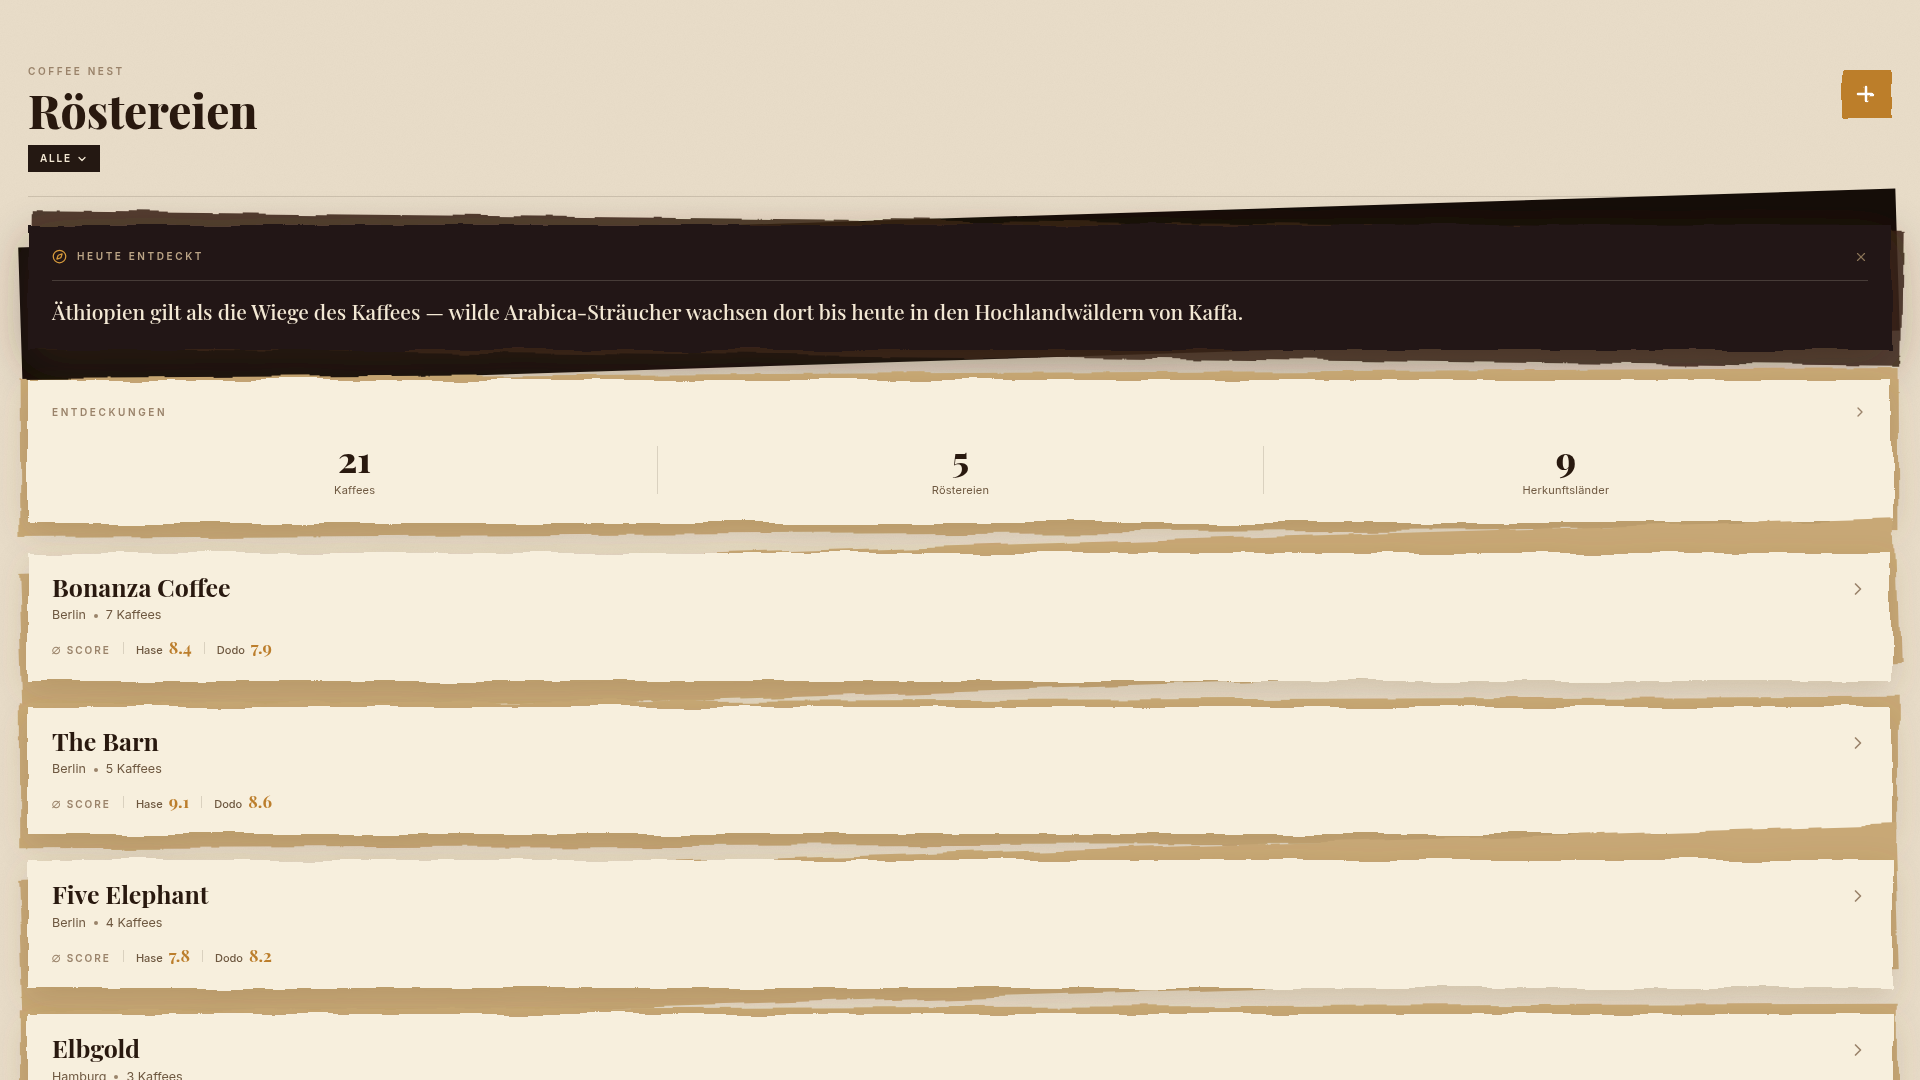
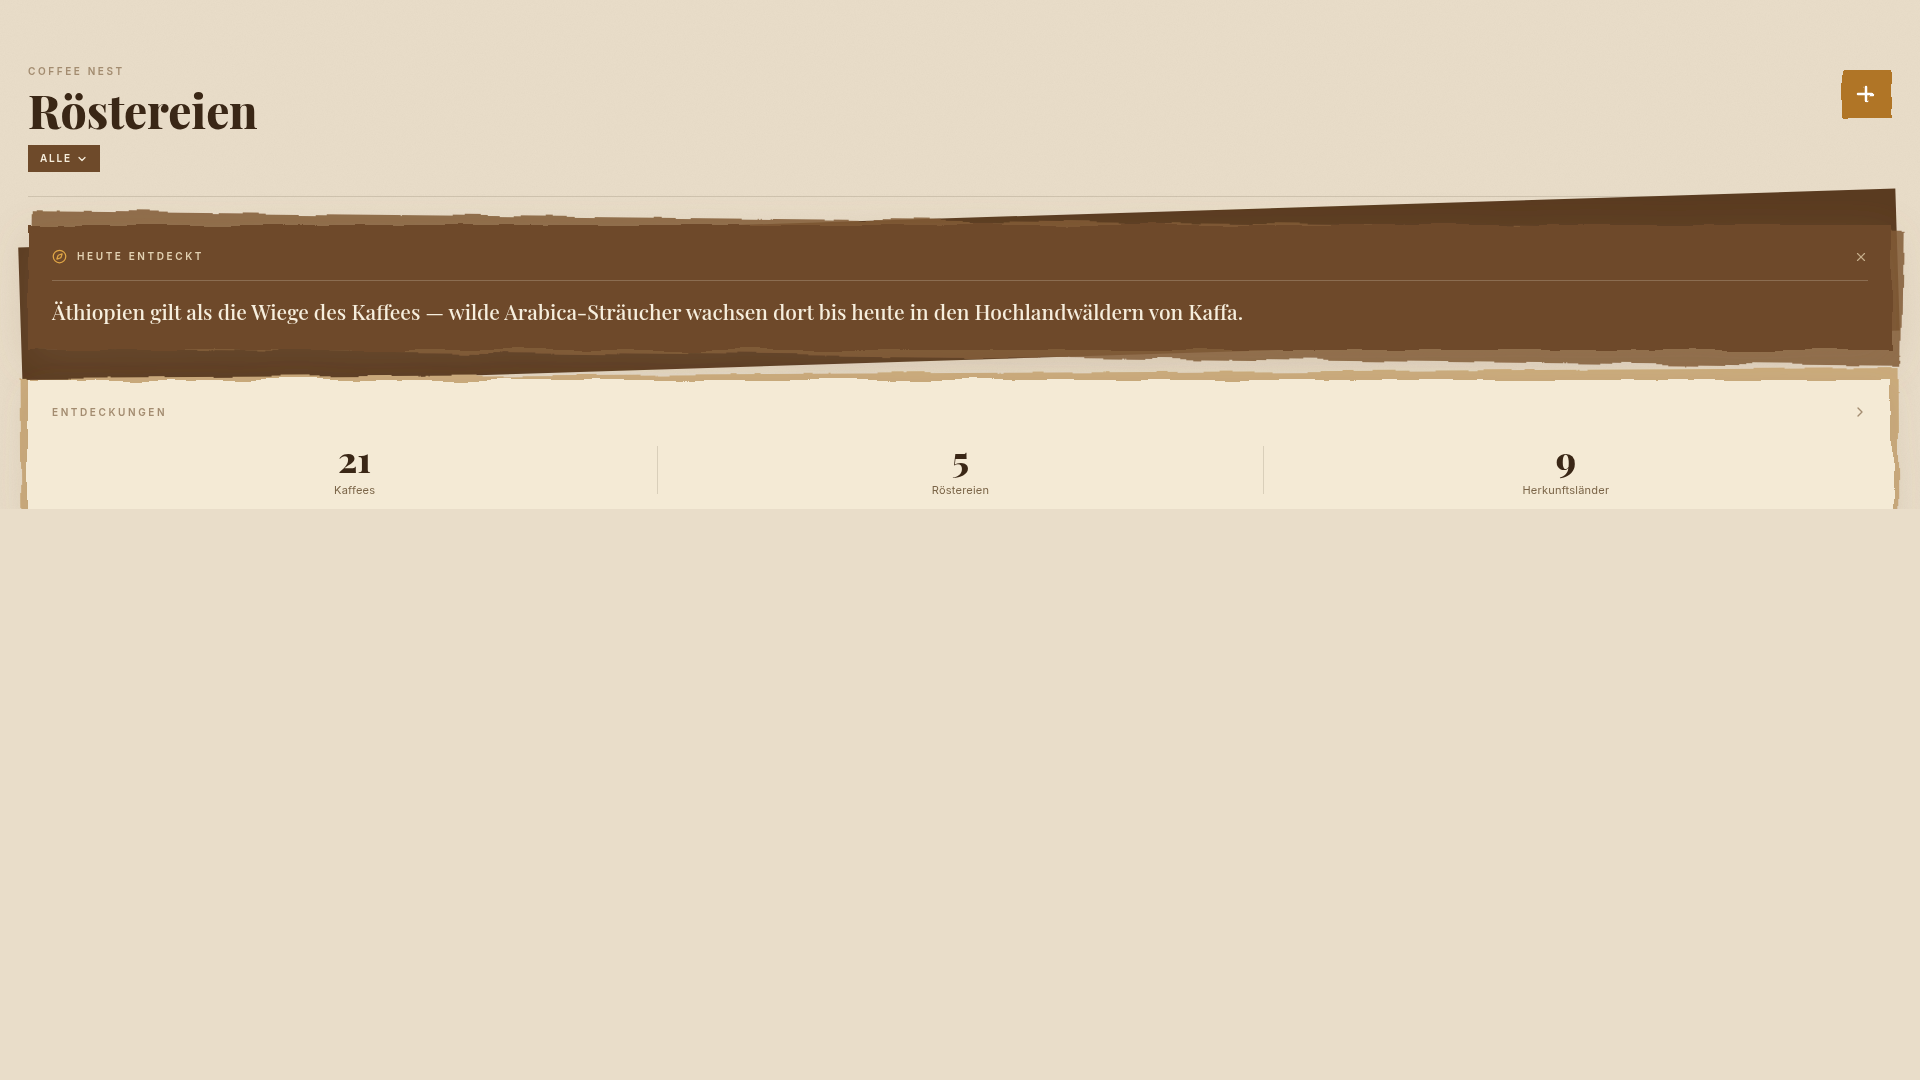
Adjust color palette for better visual harmony and softer contrast
Update CSS variables and drop-shadows to use warmer, mid-tone browns, reducing the harsh contrast between dark and light elements.

Replit-Commit-Author: Agent
Replit-Commit-Session-Id: 8ec9cf34-3cee-4318-9f01-dbe2bfcc87a5
Replit-Commit-Checkpoint-Type: full_checkpoint
Replit-Commit-Event-Id: eef87a33-0121-4392-b2b2-25f5c6805de1
Replit-Commit-Screenshot-Url: https://storage.googleapis.com/screenshot-production-us-central1/ae074071-7536-43a1-8e3b-21f4532e524d/8ec9cf34-3cee-4318-9f01-dbe2bfcc87a5/e8gM3Lx
Replit-Helium-Checkpoint-Created: true

Changed region(s): [[0.0, 0.1222, 1.0, 0.3667], [0.0, 0.4583, 1.0, 0.825], [0.0, 0.825, 1.0, 1.0]]

diff --git a/artifacts/mockup-sandbox/src/components/mockups/paper-layers/_group.css b/artifacts/mockup-sandbox/src/components/mockups/paper-layers/_group.css
@@ -2,23 +2,23 @@
 .paper-root {
   --paper-bg: #E9DDC9;
   --paper-bg-2: #E2D4BC;
-  --cream: #F7EFDD;
-  --cream-2: #FCF6E9;
-  --kraft: #C8A876;
-  --kraft-deep: #B28A53;
-  --espresso: #241812;
-  --espresso-2: #150D08;
-  --espresso-3: #382418;
-  --gold: #BC7E2C;
-  --gold-light: #D89B3C;
-  --ink: #29190F;
-  --ink-soft: #6E5840;
-  --ink-faint: #9A836A;
-  --cream-text: #F3E8D4;
-  --cream-text-soft: #BBA486;
-  --cream-text-faint: #8C7558;
-  --hair: rgba(41, 25, 15, 0.14);
-  --hair-cream: rgba(243, 232, 212, 0.18);
+  --cream: #F4EAD5;
+  --cream-2: #FAF3E5;
+  --kraft: #CBAB7B;
+  --kraft-deep: #B68F58;
+  --espresso: #6E4A2A;
+  --espresso-2: #5A3B20;
+  --espresso-3: #815A36;
+  --gold: #B07526;
+  --gold-light: #E0A646;
+  --ink: #3A2716;
+  --ink-soft: #7A6447;
+  --ink-faint: #A38C70;
+  --cream-text: #F6EEDD;
+  --cream-text-soft: #E2D1B2;
+  --cream-text-faint: #C6AF8C;
+  --hair: rgba(58, 39, 22, 0.14);
+  --hair-cream: rgba(246, 238, 221, 0.22);
 
   --serif: "Playfair Display", Georgia, serif;
   --sans: "Inter", system-ui, sans-serif;

diff --git a/artifacts/mockup-sandbox/src/components/mockups/paper-layers/Entdeckungen.tsx b/artifacts/mockup-sandbox/src/components/mockups/paper-layers/Entdeckungen.tsx
@@ -56,8 +56,8 @@ function Sheet({
   const backing = tone === "cream" ? "var(--kraft)" : "var(--espresso-2)";
   const shadow =
     tone === "cream"
-      ? "drop-shadow(0 10px 16px rgba(40,24,12,0.20))"
-      : "drop-shadow(0 14px 22px rgba(15,8,4,0.42))";
+      ? "drop-shadow(0 10px 16px rgba(58,39,22,0.16))"
+      : "drop-shadow(0 12px 20px rgba(74,48,24,0.24))";
   const backSeed = ((seed + 6) % 16) + 1;
   return (
     <div className="relative" style={style}>

diff --git a/artifacts/mockup-sandbox/src/components/mockups/paper-layers/Roastereien.tsx b/artifacts/mockup-sandbox/src/components/mockups/paper-layers/Roastereien.tsx
@@ -57,8 +57,8 @@ function Sheet({
   const backing = tone === "cream" ? "var(--kraft)" : "var(--espresso-2)";
   const shadow =
     tone === "cream"
-      ? "drop-shadow(0 10px 16px rgba(40,24,12,0.20))"
-      : "drop-shadow(0 14px 22px rgba(15,8,4,0.42))";
+      ? "drop-shadow(0 10px 16px rgba(58,39,22,0.16))"
+      : "drop-shadow(0 12px 20px rgba(74,48,24,0.24))";
   const backSeed = ((seed + 6) % 16) + 1;
   return (
     <div className="relative" style={style}>
